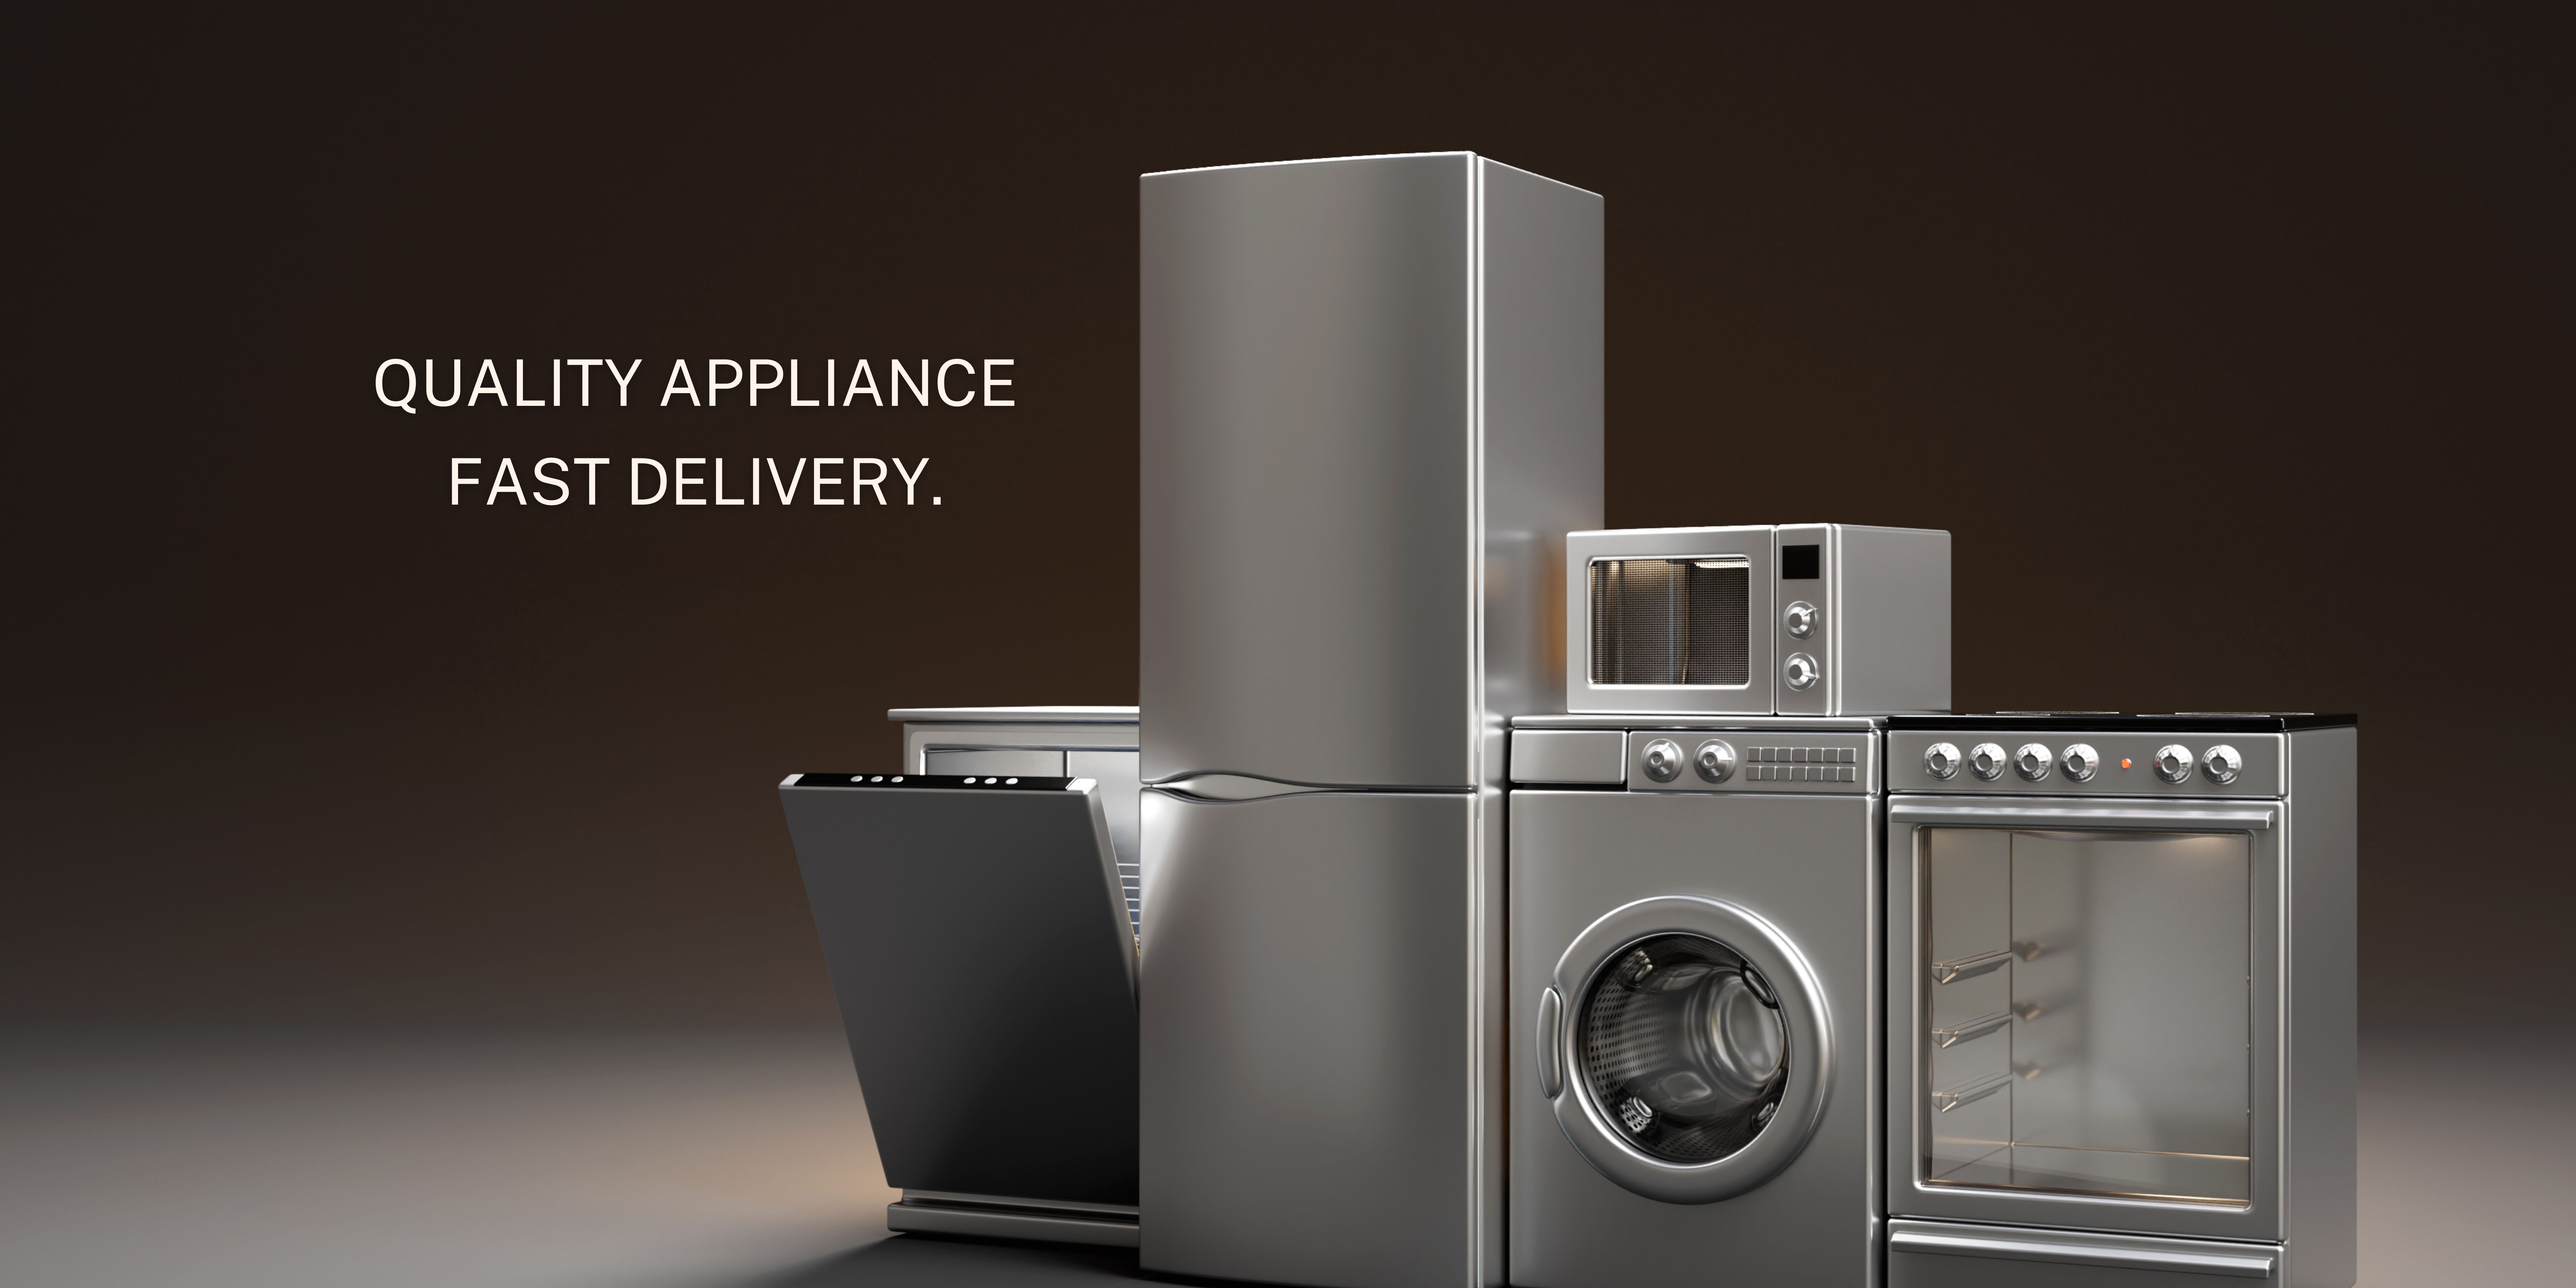
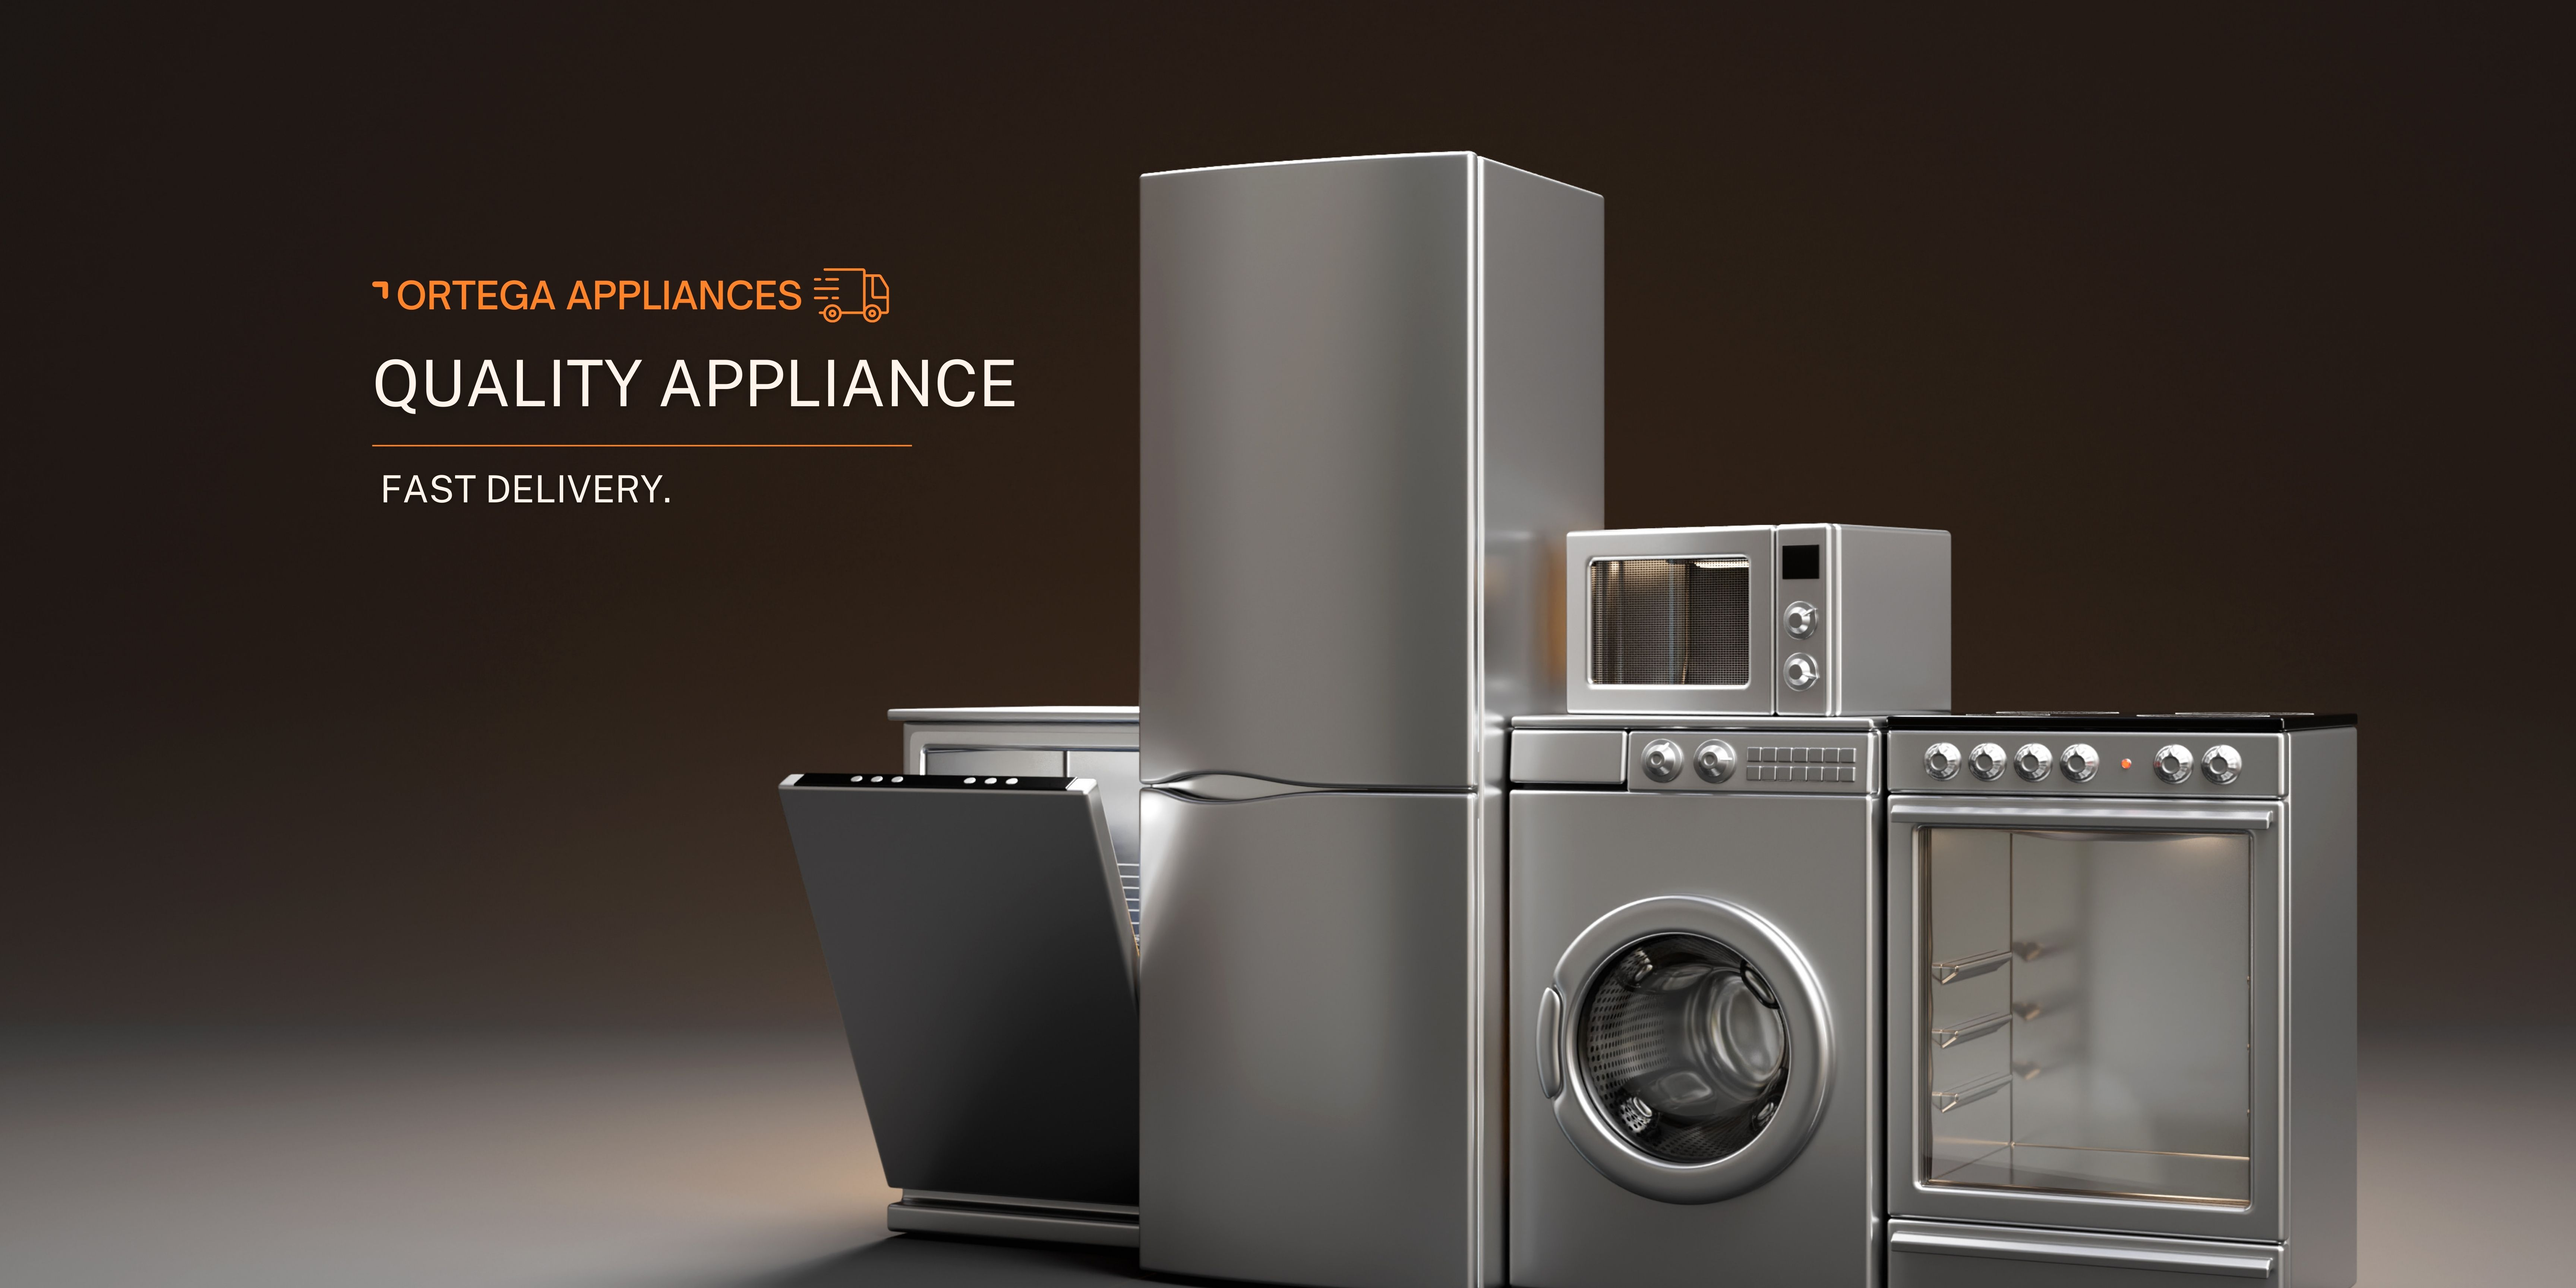
added inicio

Changed region(s): [[0.1562, 0.3438, 0.375, 0.4062], [0.1562, 0.1875, 0.3438, 0.25]]

diff --git a/public/assets/css/style.css b/public/assets/css/style.css
@@ -109,6 +109,7 @@
     background-position: 25% 315%;
 }
 
+
 .greenCard {
     margin-top: -5%;
     padding: 2%;
@@ -252,7 +253,7 @@
 }
 
 .contactoDiv {
-    background-color: #def4e3 !important;
+    background-color:  #93948f  !important;
     padding-top: 15%;
     padding-bottom: 1%;
 }
@@ -314,6 +315,14 @@
 }
 
 @media(max-width:991px) {
+    .titleStore{
+        font-size: 1rem;
+    }
+    .divDelivery {
+        padding-top: 5%;
+        padding-bottom: 1%;
+    }
+    
     .btnIn {
         margin-bottom: 7%;
     }
@@ -392,8 +401,11 @@
     }
 
     .bannerDivInicio {
-        height: 27rem;
+        height: 44rem;
         background-position: 54% 140%;
+        background-image: url("/assets/images/bannerStory.jpg");
+        margin-top: 10%;
+
     }
 
     .divCatchUp {
